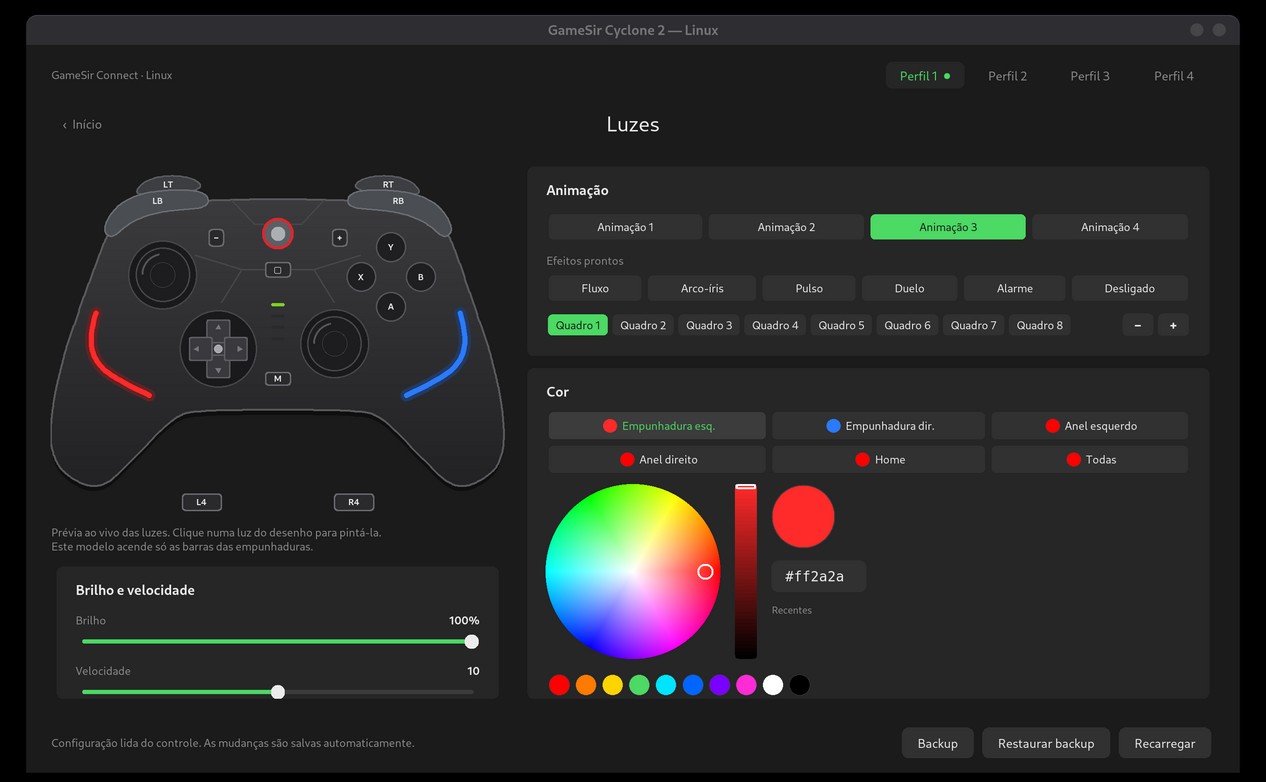
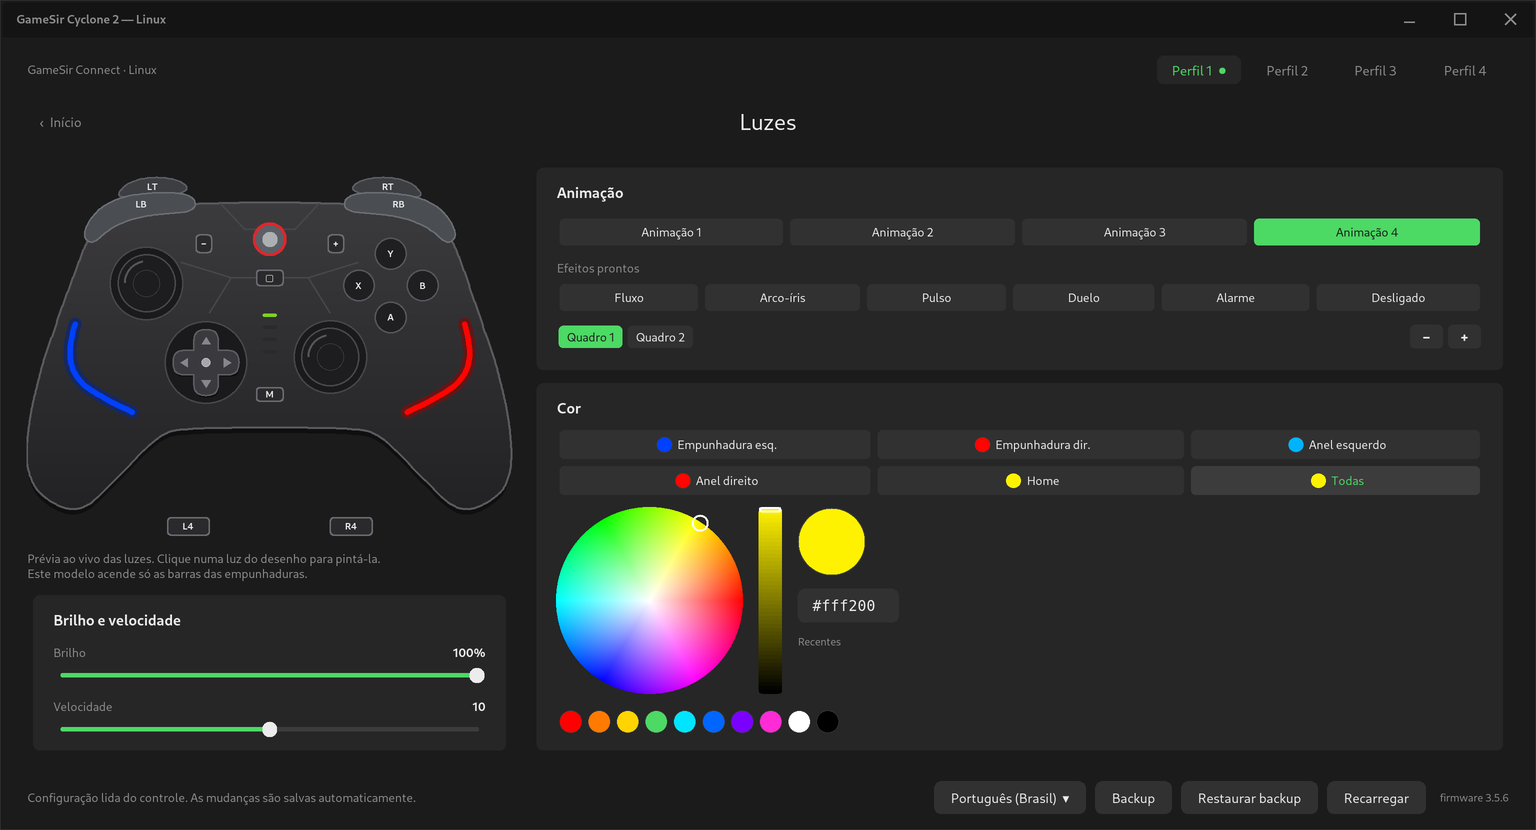
Release 0.1.0-beta.2: new README screenshots, changelog, version
Screenshots taken against the in-process fake controller (2.4G dongle, 85% battery):
home page with the connection badge and the rounded d-pad, buttons page and lights page.

diff --git a/src/cyclone2/__init__.py b/src/cyclone2/__init__.py
@@ -12,4 +12,4 @@ Package layout:
 * :mod:`cyclone2.gui`       — the ``c2gui`` Tk interface.
 """
 
-__version__ = "0.1.0b1"
+__version__ = "0.1.0b2"

diff --git a/CHANGELOG.md b/CHANGELOG.md
@@ -2,10 +2,21 @@
 
 This project follows [Semantic Versioning](https://semver.org/).
 
-## Unreleased
+## 0.1.0-beta.2 — 2026-10-15
 
-* `c2gui`: the interface is available in English and Brazilian Portuguese. It follows the system language and can
-  be changed with the selector next to Backup or on the Profile page.
+* AppImage for any distribution, attached to the release with `install-udev.sh`, the udev rule and a short notice
+  (built by the manual `appimage` workflow). Thanks to @moi952.
+* `c2gui`: the interface is available in English, French and Brazilian Portuguese. It follows the system language
+  and can be changed with the selector next to Backup or on the Profile page. (French by @moi952.)
+* `c2gui`: dark window frame drawn by the app; the window manager still moves, resizes, snaps and maximises the
+  window. `CYCLONE2_NATIVE_TITLEBAR=1` keeps the system title bar. Dialogs use the same style. (@moi952)
+* `c2gui`: clear, translated messages when the controller is missing, silent or not accessible. (@moi952)
+* `c2gui`: new remap choices "Home" and "Steam quick menu" (Ctrl+2). (@moi952)
+* `c2gui`: connection badge as in the 8BitDo Ultimate 2 configurator: Wi-Fi through the 2.4G dongle or a plug on
+  the cable, live battery level (red at 15% or less, a bolt while charging), a red X when the controller does
+  not answer; the firmware moved to the footer's corner.
+* `c2gui`: the d-pad is one rounded cross with larger arrows.
+* Checked through the 2.4G dongle as well as on the cable.
 
 ## 0.1.0-beta.1 — 2026-10-12
 

diff --git a/README.md b/README.md
@@ -44,7 +44,7 @@ Download `cyclone2_<version>_all.deb` from the
 [Releases page](https://github.com/MiguelSanzBr/gamesir-cyclone2-linux/releases), then:
 
 ```bash
-sudo apt install ./cyclone2_0.1.0-beta1_all.deb
+sudo apt install ./cyclone2_0.1.0-beta2_all.deb
 ```
 
 This installs the `c2ctl` and `c2gui` commands, the menu entry "GameSir Cyclone 2" and the udev rule.
